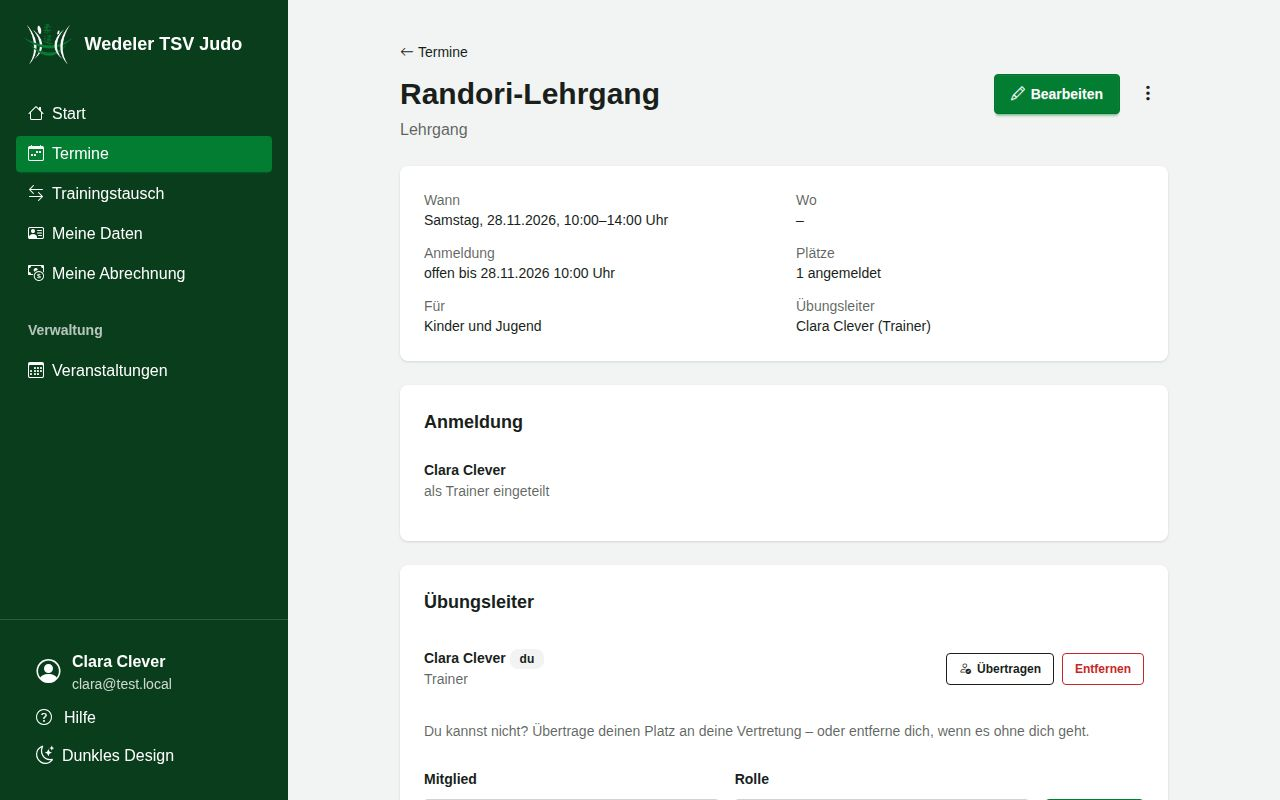
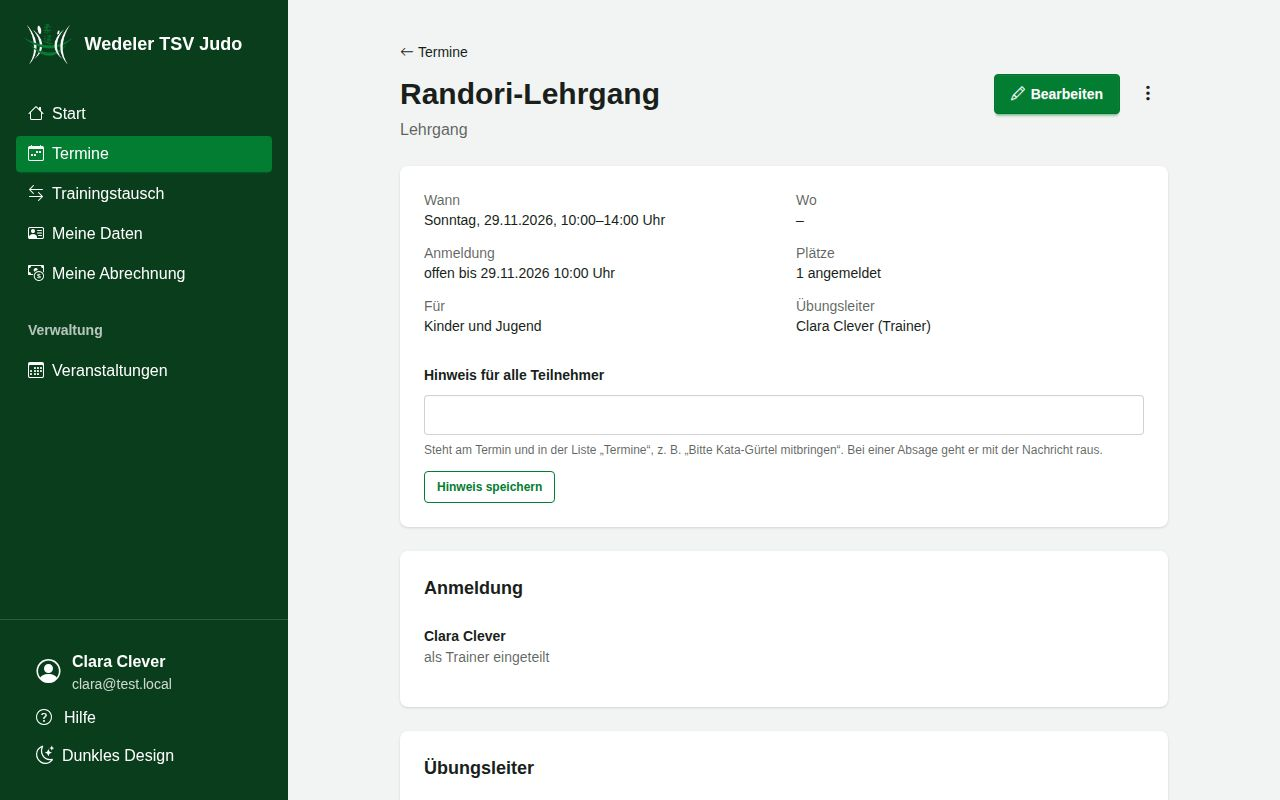
feat: „Hinweis für alle Teilnehmer“ oben am Termin statt im Bereich „Übungsleiter“
Wer den Termin leitet, bearbeitet den Hinweis direkt unter den Angaben zum Termin; der Hilfetext sagt,
wo er erscheint. Alle anderen sehen ihn dort wie bisher als Info-Box. Hilfe und Screenshots angepasst.

Claude-Session: https://claude.ai/code/session_017LHgXea5AxfRcr57bsDwjB

diff --git a/portal/events/templates/events/occurrence_detail.html b/portal/events/templates/events/occurrence_detail.html
@@ -20,7 +20,12 @@
     <div><dt class="text-sm text-base-content/70">Übungsleiter</dt><dd>{% for p in team %}{{ p.member.display_name }} ({{ p.role.name }}){% if not forloop.last %}, {% endif %}{% empty %}–{% endfor %}</dd></div>
   </dl>
   {% if event.description %}<p class="whitespace-pre-line">{{ event.description }}</p>{% endif %}
-  {% if occurrence.note %}<div role="note" class="alert"><i class="bi bi-info-circle" aria-hidden="true"></i><span>{{ occurrence.note }}</span></div>{% endif %}
+  {% if note_form %}
+  <form method="post" action="{% url 'occurrence_note' occurrence.pk %}" class="flex flex-col gap-2">{% csrf_token %}
+    {{ note_form }}
+    <div><button class="btn btn-outline btn-primary btn-sm" type="submit">Hinweis speichern</button></div>
+  </form>
+  {% elif occurrence.note %}<div role="note" class="alert"><i class="bi bi-info-circle" aria-hidden="true"></i><span>{{ occurrence.note }}</span></div>{% endif %}
 </div></div>
 
 {% if own %}
@@ -75,12 +80,6 @@
   {% elif can_unconfirm %}
   <form method="post" action="{% url 'hours_unconfirm' occurrence.pk %}">{% csrf_token %}
     <button class="btn btn-outline" type="submit"><i class="bi bi-arrow-counterclockwise" aria-hidden="true"></i> Bestätigung zurücknehmen</button>
-  </form>
-  {% endif %}
-  {% if note_form %}
-  <form method="post" action="{% url 'occurrence_note' occurrence.pk %}" class="flex flex-col gap-2">{% csrf_token %}
-    {{ note_form }}
-    <div><button class="btn btn-outline btn-primary" type="submit">Hinweis speichern</button></div>
   </form>
   {% endif %}
 </div></section>

diff --git a/portal/events/tests/test_views.py b/portal/events/tests/test_views.py
@@ -368,3 +368,18 @@ def test_open_and_delete_from_the_entry(client, head):
         reverse("interest_delete", args=[interest.pk])
         in client.get(reverse("interest_edit", args=[interest.pk])).content.decode()
     )
+
+
+def test_note_for_all_participants_above_team_section(client, trainer, parent, child):
+    """Der Hinweis steht oben am Termin, nicht im Bereich „Übungsleiter“; nur wer leitet, bearbeitet ihn."""
+    occurrence = make_occurrence()
+    services.set_team(occurrence, services.own_member(trainer), role("Trainer"))
+    login(client, trainer)
+    url = reverse("occurrence_detail", args=[occurrence.pk])
+    client.post(reverse("occurrence_note", args=[occurrence.pk]), {"note": "Bitte Kata-Gürtel mitbringen"})
+    page = client.get(url).content.decode()
+    assert "Hinweis für alle Teilnehmer" in page
+    assert page.index("Hinweis für alle Teilnehmer") < page.index('id="h-team"')
+    login(client, parent)
+    page = client.get(url).content.decode()
+    assert "Hinweis für alle Teilnehmer" not in page and "Bitte Kata-Gürtel mitbringen" in page

diff --git a/portal/events/forms.py b/portal/events/forms.py
@@ -429,6 +429,11 @@ class NoteForm(forms.ModelForm):
     class Meta:
         model = Occurrence
         fields = ("note",)
+        labels = {"note": "Hinweis für alle Teilnehmer"}
+        help_texts = {
+            "note": "Steht am Termin und in der Liste „Termine“, z. B. „Bitte Kata-Gürtel mitbringen“. "
+            "Bei einer Absage geht er mit der Nachricht raus."
+        }
 
 
 class CancelRangeForm(forms.Form):
